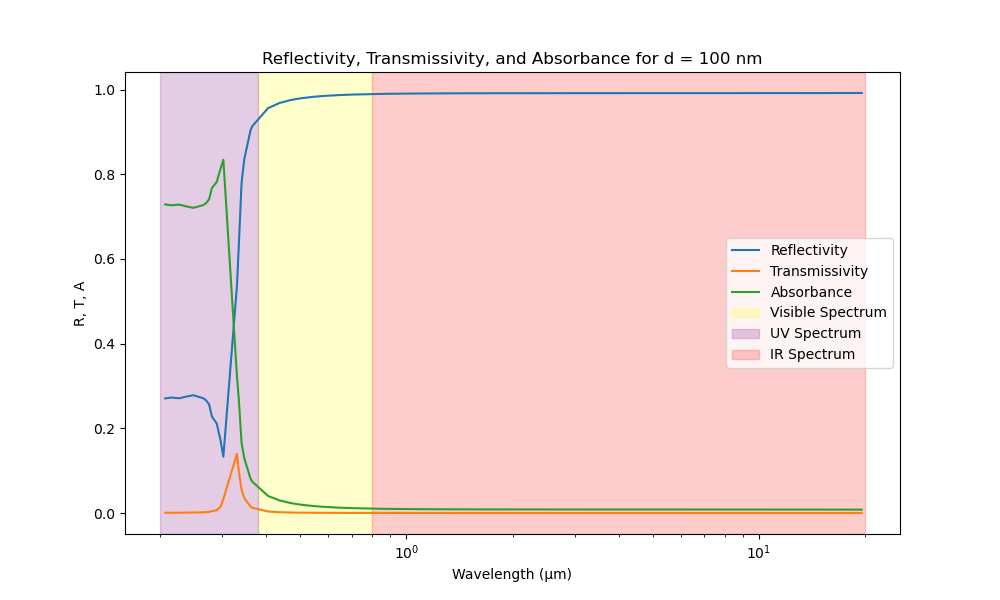
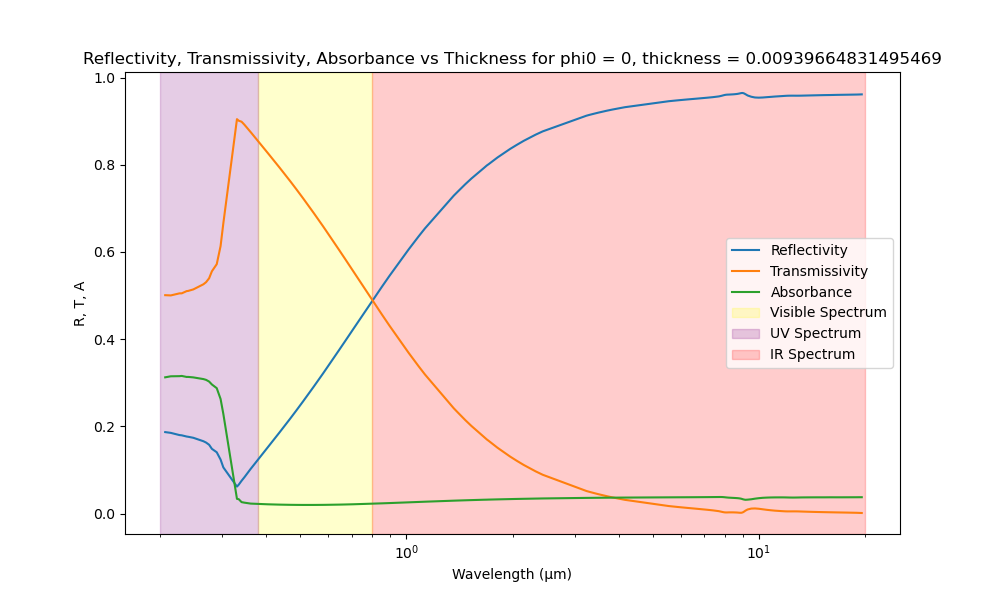
calcul de l'épaisseur optimale d

diff --git a/Task 2/task2.py b/Task 2/task2.py
@@ -184,7 +184,7 @@ def plot_R_T_A_fixed_phi0_and_d(n0, n1, n2, d1, lambda_um, phi0, Tilte = "", sav
     if Tilte != "":
         plt.title(Tilte)
     if save:
-        plt.savefig("R_T_A.png")
+        plt.savefig("Output/RTA_phi0_d/RTA_phi0_{}nm_{}.png".format(d1*1e3,phi0))
     else : 
         plt.show()
 
@@ -331,6 +331,18 @@ def plot_I_vs_d( lambda_um, n0, n1, n2, d_list, phi0, Irradiance):
     plt.legend()
     plt.savefig("Output/Fraction_of_spectra_vs_thickness/IR.png")
 
+    # visible vs IR
+    plt.figure(figsize=(10, 6))
+    plt.plot(d_list, T_Visible, label= "Transmissivity (Visible Spectrum)")
+    plt.plot(d_list, R_IR, label= "Reflectivity (IR Spectrum)")
+    plt.xlabel("Thickness (µm)")
+    plt.xscale('log')
+    plt.ylabel("R, T (%)")
+    plt.vlines(Optimal_thickness(d_list, lambda_um, n0, n1, n2, phi0, Irradiance), 0, 100, color = "red", label = "Optimal thickness")
+    plt.legend()
+    plt.savefig("Output/Fraction_of_spectra_vs_thickness/Visible_IR.png")
+    
+
 def plot_R_T_A_vs_d(lambda_um, n0, n1, n2, d_list, phi0):
     fig, axs = plt.subplots(3, 1, figsize=(10, 18), sharex=True)
 
@@ -371,7 +383,16 @@ def plot_R_T_A_vs_d(lambda_um, n0, n1, n2, d_list, phi0):
     plt.tight_layout()
     plt.savefig("Output/RTA_vs_d/RTA_combined_{}.png".format(phi0))
 
+def Optimal_thickness(d_list, lambda_um, n0, n1, n2, phi0, Irradiance):
+    # save d values that maximise the product  R_IR and T_Vis
 
+    R_IR, T_IR, _ = spectral_RTA('IR', lambda_um, n0, n1, n2, d_list, phi0, Irradiance)
+    R_Vis, T_Vis, _ = spectral_RTA('Visible', lambda_um, n0, n1, n2, d_list, phi0, Irradiance)
+    d_opt = []
+    for i, d in enumerate(d_list):
+        d_opt.append(R_IR[i] * T_Vis[i])
+    return d_list[np.argmax(d_opt)]
+        
     
 if __name__ == "__main__":
     print ("Task 2 :")
@@ -383,7 +404,12 @@ if __name__ == "__main__":
     d_list = np.logspace(-3, 3, 1000)
     d_val = [0, 1e-3, 10e-3, 100e-3, 1000e-3]
 
-    plot_R_T_A_vs_d(lambda_um, n0, n1, n2, d_val, 0)
+    plot_R_T_A_fixed_phi0_and_d(n0, n1, n2, 14e-3, lambda_um, 0, "Reflectivity, Transmissivity, Absorbance vs Thickness for phi0 = 0, thickness = {}".format(14e-3*1e3), True)
+
+    plot_I_vs_d(lambda_um, n0, n1, n2, d_list, 0, Irradiance)
+    
+
+
 
 
     
